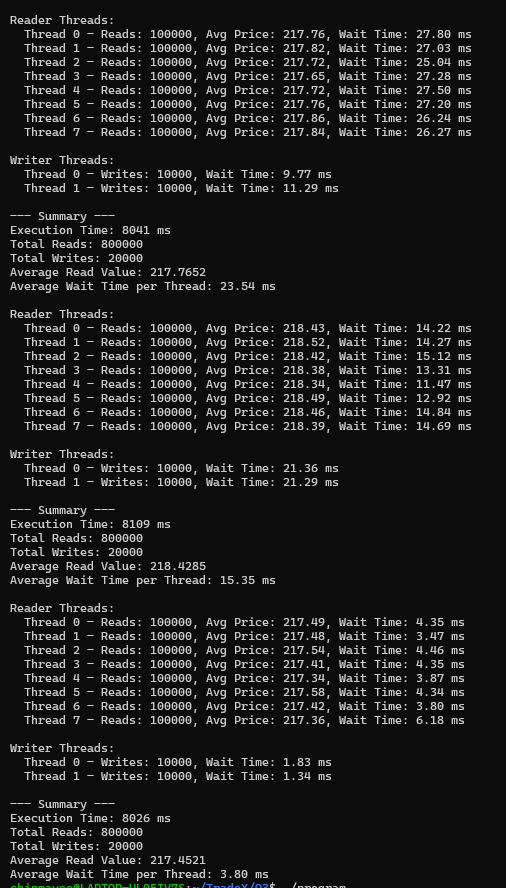
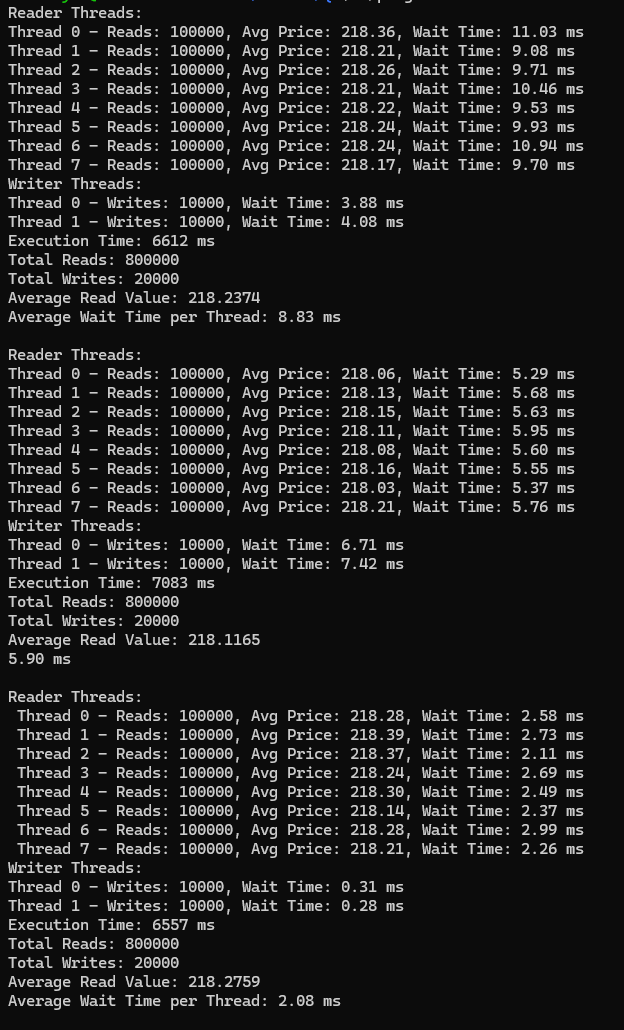
Fixed some Errors

Changed region(s): [[0.0, 0.0, 0.9486, 1.0]]

diff --git a/Q3/main.cpp b/Q3/main.cpp
@@ -21,9 +21,6 @@ struct ThreadMetrics
     ThreadMetrics() : operations(0), wait_time_us(0.0), computed_average(0.0), thread_id(0) {}
 };
 
-//============================================================
-//                 MUTEX ONLY VERSION
-//============================================================
 std::mutex mtx_rw_entry;
 int reader_count = 0;
 std::mutex mtx_reader_count;
@@ -127,41 +124,29 @@ void run_mutex_version()
     double total_wait_time = 0.0;
     double sum_averages = 0.0;
 
-    std::cout << "\nReader Threads:\n";
+    std::cout << "Reader Threads:\n";
     for (const auto &m : reader_metrics)
     {
         total_reads += m.operations;
         total_wait_time += m.wait_time_us;
         sum_averages += m.computed_average;
-        std::cout << "  Thread " << m.thread_id
-                  << " - Reads: " << m.operations
-                  << ", Avg Price: " << std::fixed << std::setprecision(2) << m.computed_average
-                  << ", Wait Time: " << std::fixed << std::setprecision(2) << (m.wait_time_us / 1000.0) << " ms\n";
+        std::cout << "Thread " << m.thread_id<< " - Reads: " << m.operations<< ", Avg Price: " << std::fixed << std::setprecision(2) << m.computed_average<< ", Wait Time: " << std::fixed << std::setprecision(2) << (m.wait_time_us / 1000.0) << " ms\n";
     }
 
-    std::cout << "\nWriter Threads:\n";
+    std::cout << "Writer Threads:\n";
     for (const auto &m : writer_metrics)
     {
         total_writes += m.operations;
         total_wait_time += m.wait_time_us;
-        std::cout << "  Thread " << m.thread_id
-                  << " - Writes: " << m.operations
-                  << ", Wait Time: " << std::fixed << std::setprecision(2) << (m.wait_time_us / 1000.0) << " ms\n";
+        std::cout << "Thread " << m.thread_id<< " - Writes: " << m.operations<< ", Wait Time: " << std::fixed << std::setprecision(2) << (m.wait_time_us / 1000.0) << " ms\n";
     }
 
-    std::cout << "\n--- Summary ---\n";
     std::cout << "Execution Time: " << duration<< " ms\n";
     std::cout << "Total Reads: " << total_reads << "\n";
     std::cout << "Total Writes: " << total_writes << "\n";
     std::cout << "Average Read Value: " << std::fixed << std::setprecision(4) << (sum_averages / READER_COUNT) << "\n";
-    std::cout << "Average Wait Time per Thread: "
-              << std::fixed << std::setprecision(2)
-              << (total_wait_time / (READER_COUNT + WRITER_COUNT) / 1000.0) << " ms\n";
+    std::cout << "Average Wait Time per Thread: "<< std::fixed << std::setprecision(2)<< (total_wait_time / (READER_COUNT + WRITER_COUNT) / 1000.0) << " ms\n";
 }
-
-//============================================================
-//                    SHARED MUTEX VERSION
-//============================================================
 
 std::shared_mutex shared_mtx;
 thread_local std::mt19937 rng2(std::random_device{}());
@@ -252,41 +237,29 @@ void run_shared_mutex_version()
     double total_wait_time = 0.0;
     double sum_averages = 0.0;
 
-    std::cout << "\nReader Threads:\n";
+    std::cout << "Reader Threads:\n";
     for (const auto &m : reader_metrics)
     {
         total_reads += m.operations;
         total_wait_time += m.wait_time_us;
         sum_averages += m.computed_average;
-        std::cout << "  Thread " << m.thread_id
-                  << " - Reads: " << m.operations
-                  << ", Avg Price: " << std::fixed << std::setprecision(2) << m.computed_average
-                  << ", Wait Time: " << std::fixed << std::setprecision(2) << (m.wait_time_us / 1000.0) << " ms\n";
+        std::cout << "Thread " << m.thread_id<< " - Reads: " << m.operations<< ", Avg Price: " << std::fixed << std::setprecision(2) << m.computed_average<< ", Wait Time: " << std::fixed << std::setprecision(2) << (m.wait_time_us / 1000.0) << " ms\n";
     }
 
-    std::cout << "\nWriter Threads:\n";
+    std::cout << "Writer Threads:\n";
     for (const auto &m : writer_metrics)
     {
         total_writes += m.operations;
         total_wait_time += m.wait_time_us;
-        std::cout << "  Thread " << m.thread_id
-                  << " - Writes: " << m.operations
-                  << ", Wait Time: " << std::fixed << std::setprecision(2) << (m.wait_time_us / 1000.0) << " ms\n";
+        std::cout << "Thread " << m.thread_id<< " - Writes: " << m.operations<< ", Wait Time: " << std::fixed << std::setprecision(2) << (m.wait_time_us / 1000.0) << " ms\n";
     }
 
-    std::cout << "\n--- Summary ---\n";
     std::cout << "Execution Time: " << duration << " ms\n";
     std::cout << "Total Reads: " << total_reads << "\n";
     std::cout << "Total Writes: " << total_writes << "\n";
-    std::cout << "Average Read Value: " << std::fixed << std::setprecision(4) << (sum_averages / READER_COUNT) << "\n";
-    std::cout << "Average Wait Time per Thread: "
-              << std::fixed << std::setprecision(2)
-              << (total_wait_time / (READER_COUNT + WRITER_COUNT) / 1000.0) << " ms\n";
+    std::cout << "Average Read Value: " << std::fixed << std::setprecision(4) << (sum_averages / READER_COUNT) << "\n"<< std::fixed << std::setprecision(2)<< (total_wait_time / (READER_COUNT + WRITER_COUNT) / 1000.0) << " ms\n";
 }
 
-//============================================================
-//                    FINE GRAINED VERSION
-//============================================================
 
 std::mutex segmented[10];
 thread_local std::mt19937 rng3(std::random_device{}());
@@ -378,42 +351,36 @@ void run_segmented_mutex_version()
     double total_wait_time = 0.0;
     double sum_averages = 0.0;
 
-    std::cout << "\nReader Threads:\n";
+    std::cout << "Reader Threads:\n";
     for (const auto &m : reader_metrics)
     {
         total_reads += m.operations;
         total_wait_time += m.wait_time_us;
         sum_averages += m.computed_average;
-        std::cout << "  Thread " << m.thread_id
-                  << " - Reads: " << m.operations
-                  << ", Avg Price: " << std::fixed << std::setprecision(2) << m.computed_average
-                  << ", Wait Time: " << std::fixed << std::setprecision(2) << (m.wait_time_us / 1000.0) << " ms\n";
+        std::cout << " Thread " << m.thread_id<< " - Reads: " << m.operations<< ", Avg Price: " << std::fixed << std::setprecision(2) << m.computed_average<< ", Wait Time: " << std::fixed << std::setprecision(2) << (m.wait_time_us / 1000.0) << " ms\n";
     }
 
-    std::cout << "\nWriter Threads:\n";
+    std::cout << "Writer Threads:\n";
     for (const auto &m : writer_metrics)
     {
         total_writes += m.operations;
         total_wait_time += m.wait_time_us;
-        std::cout << "  Thread " << m.thread_id
-                  << " - Writes: " << m.operations
-                  << ", Wait Time: " << std::fixed << std::setprecision(2) << (m.wait_time_us / 1000.0) << " ms\n";
+        std::cout << "Thread " << m.thread_id<< " - Writes: " << m.operations<< ", Wait Time: " << std::fixed << std::setprecision(2) << (m.wait_time_us / 1000.0) << " ms\n";
     }
 
-    std::cout << "\n--- Summary ---\n";
     std::cout << "Execution Time: " << duration << " ms\n";
     std::cout << "Total Reads: " << total_reads << "\n";
     std::cout << "Total Writes: " << total_writes << "\n";
     std::cout << "Average Read Value: " << std::fixed << std::setprecision(4) << (sum_averages / READER_COUNT) << "\n";
-    std::cout << "Average Wait Time per Thread: "
-              << std::fixed << std::setprecision(2)
-              << (total_wait_time / (READER_COUNT + WRITER_COUNT) / 1000.0) << " ms\n";
+    std::cout << "Average Wait Time per Thread: "<< std::fixed << std::setprecision(2)<< (total_wait_time / (READER_COUNT + WRITER_COUNT) / 1000.0) << " ms\n";
 }
 
 int main()
 {
     run_mutex_version();
+    std::cout<<std::endl;
     run_shared_mutex_version();
+    std::cout<<std::endl;
     run_segmented_mutex_version();
     return 0;
 }
